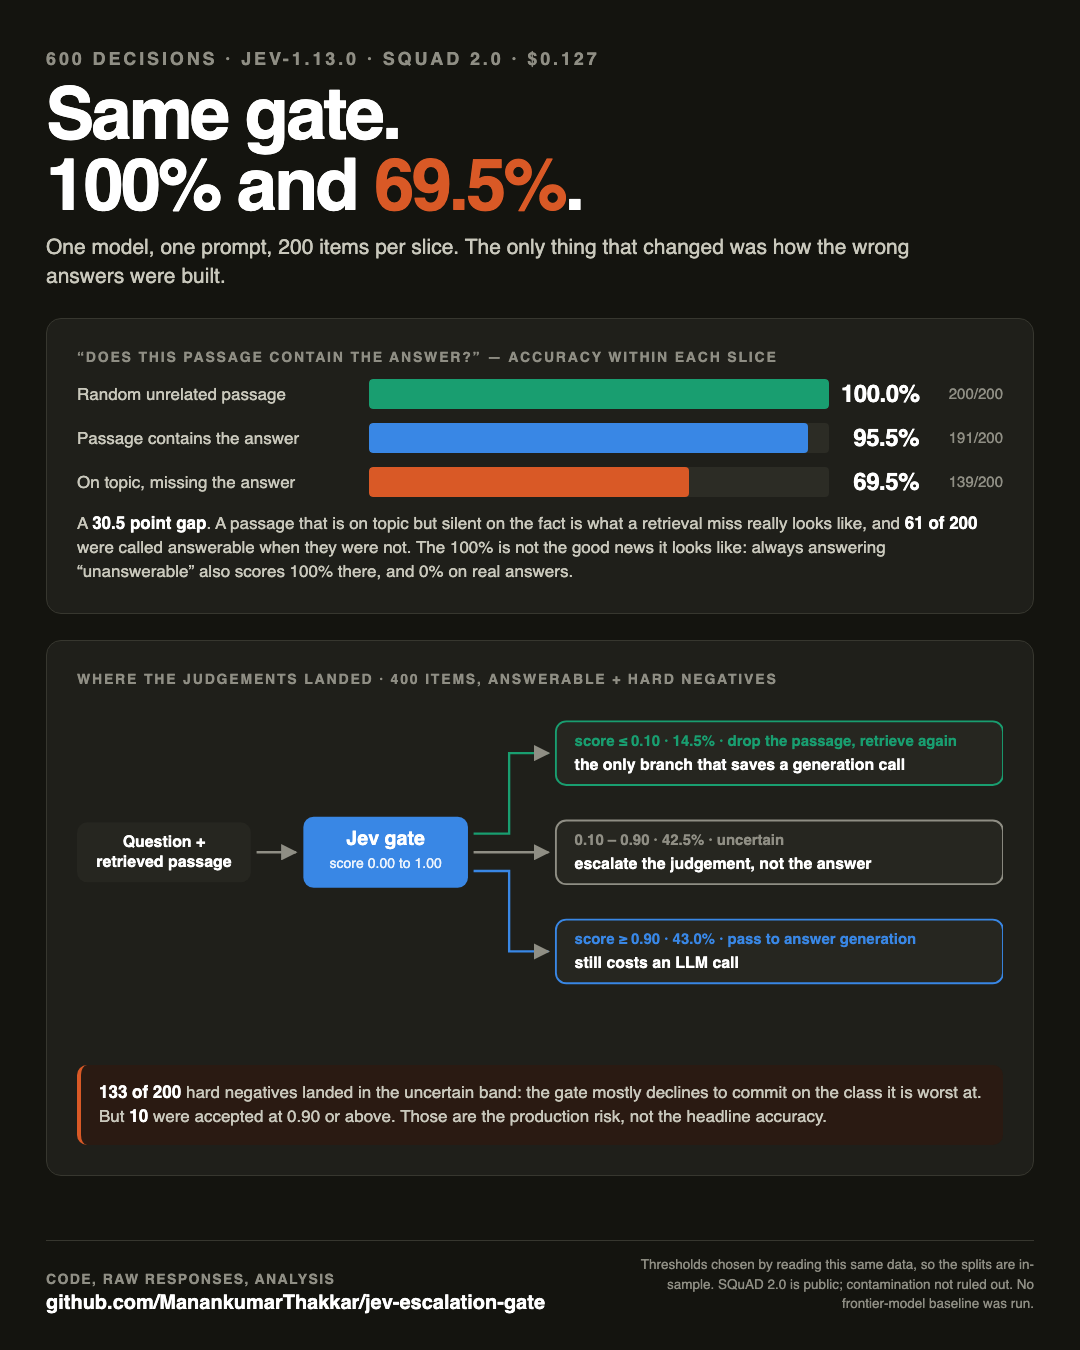
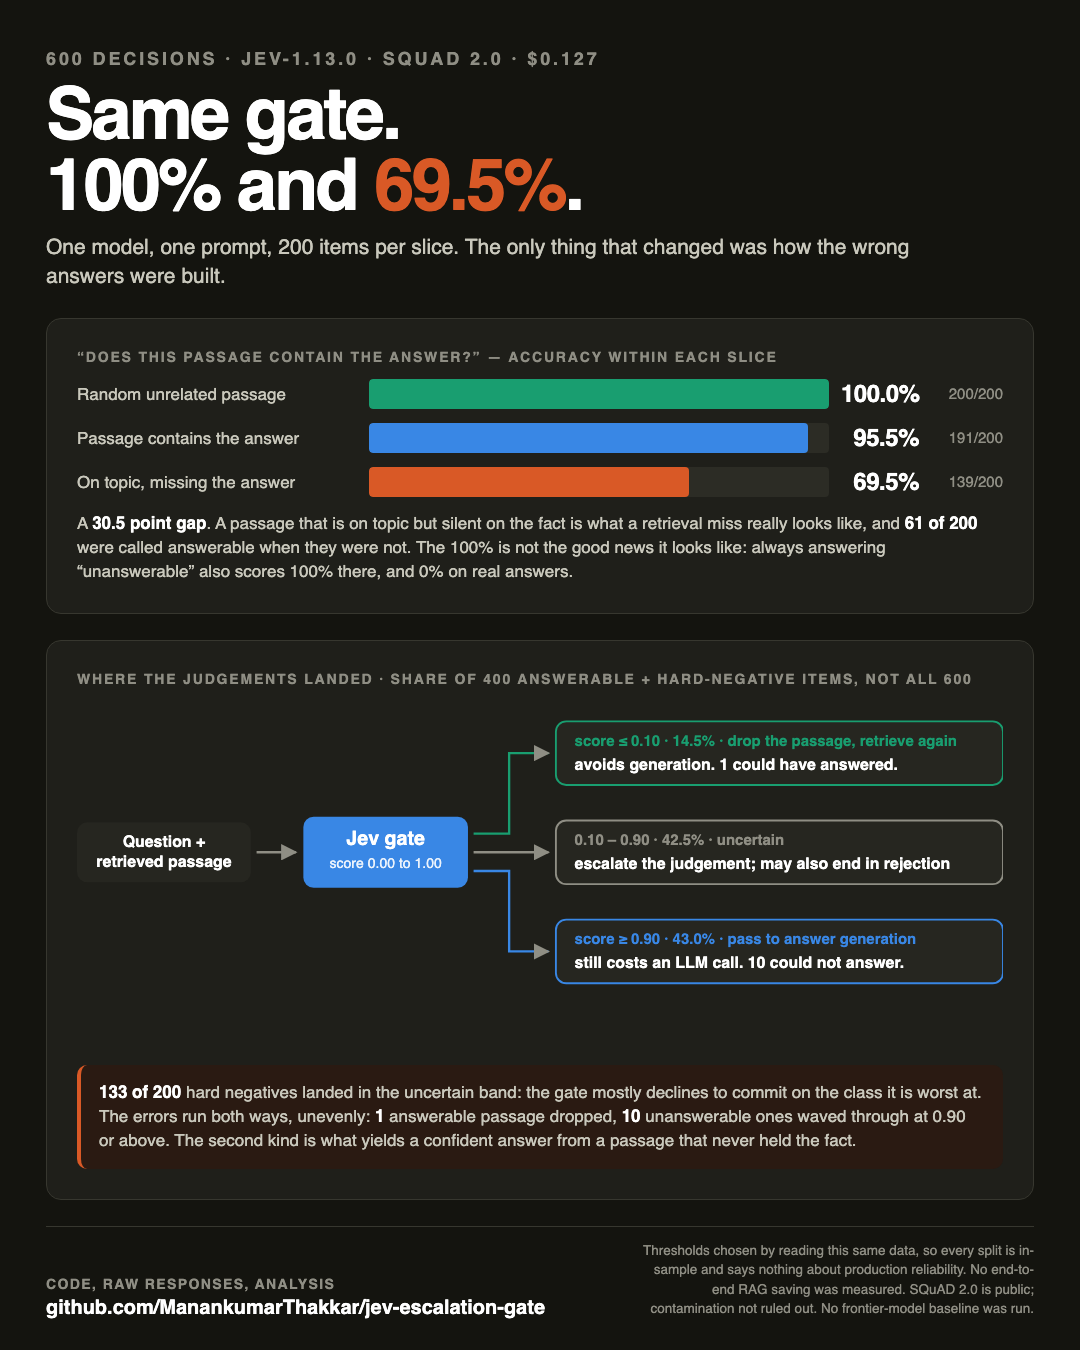
State the denominator, both error directions, and stop overclaiming the saving
Four corrections, all verified against the raw responses.

The reject branch was described as the only one that avoids a generation call.
It is not: 133 of the 170 escalated items are genuinely unanswerable, so a
stronger evaluator rejecting them avoids generation too. That path was never
measured, so no end-to-end saving is claimed.

The routing shares were published without their population. They are over the
400 answerable and hard-negative items; over all 600 the same band reads 42.8%
rather than 14.5%, so the denominator is now stated everywhere it appears.

Only false acceptance was reported. The reject branch also dropped one passage
that could have answered. Both directions are now shown, with the asymmetry.

Calibration no longer carries 'enough to route on', which the in-sample
thresholds do not support. The measurement stays; the endorsement goes.

diff --git a/linkedin/figure.html b/linkedin/figure.html
@@ -57,7 +57,7 @@
  </div>
 
  <div class="panel">
-  <div class="pt">Where the judgements landed &middot; 400 items, answerable + hard negatives</div>
+  <div class="pt">Where the judgements landed &middot; share of 400 answerable + hard-negative items, not all 600</div>
   <svg viewBox="0 0 990 340" width="100%" height="340" role="img"
        aria-label="Three routing branches by score: reject, escalate, or pass to generation">
    <defs><marker id="a" viewBox="0 0 10 10" refX="9" refY="5" markerWidth="7" markerHeight="7"
@@ -76,25 +76,28 @@
 
    <rect x="512" y="10" width="478" height="68" rx="11" fill="var(--panel2)" stroke="var(--s3)" stroke-width="2"/>
    <text x="532" y="36" font-size="16" font-weight="700" fill="var(--s3)">score &le; 0.10 &middot; 14.5% &middot; drop the passage, retrieve again</text>
-   <text x="532" y="62" font-size="17" font-weight="650" fill="var(--ink)">the only branch that saves a generation call</text>
+   <text x="532" y="62" font-size="17" font-weight="650" fill="var(--ink)">avoids generation. 1 could have answered.</text>
 
    <rect x="512" y="116" width="478" height="68" rx="11" fill="var(--panel2)" stroke="var(--ink3)" stroke-width="2"/>
    <text x="532" y="142" font-size="16" font-weight="700" fill="var(--ink3)">0.10 &ndash; 0.90 &middot; 42.5% &middot; uncertain</text>
-   <text x="532" y="168" font-size="17" font-weight="650" fill="var(--ink)">escalate the judgement, not the answer</text>
+   <text x="532" y="168" font-size="17" font-weight="650" fill="var(--ink)">escalate the judgement; may also end in rejection</text>
 
    <rect x="512" y="222" width="478" height="68" rx="11" fill="var(--panel2)" stroke="var(--s1)" stroke-width="2"/>
    <text x="532" y="248" font-size="16" font-weight="700" fill="var(--s1)">score &ge; 0.90 &middot; 43.0% &middot; pass to answer generation</text>
-   <text x="532" y="274" font-size="17" font-weight="650" fill="var(--ink)">still costs an LLM call</text>
+   <text x="532" y="274" font-size="17" font-weight="650" fill="var(--ink)">still costs an LLM call. 10 could not answer.</text>
   </svg>
   <div class="warn"><b>133 of 200</b> hard negatives landed in the uncertain band: the gate
-  mostly declines to commit on the class it is worst at. But <b>10</b> were accepted at
-  0.90 or above. Those are the production risk, not the headline accuracy.</div>
+  mostly declines to commit on the class it is worst at. The errors run both ways, unevenly:
+  <b>1</b> answerable passage dropped, <b>10</b> unanswerable ones waved through at
+  0.90 or above. The second kind is what yields a confident answer from a passage that
+  never held the fact.</div>
  </div>
 
  <footer>
   <div><div class="rlab">Code, raw responses, analysis</div><div class="repo">github.com/ManankumarThakkar/jev-escalation-gate</div></div>
-  <div class="cav">Thresholds chosen by reading this same data, so the splits are in-sample.
-  SQuAD 2.0 is public; contamination not ruled out. No frontier-model baseline was run.</div>
+  <div class="cav">Thresholds chosen by reading this same data, so every split is in-sample and
+  says nothing about production reliability. No end-to-end RAG saving was measured. SQuAD 2.0
+  is public; contamination not ruled out. No frontier-model baseline was run.</div>
  </footer>
 
 </div></body></html>

diff --git a/src/make_figure.py b/src/make_figure.py
@@ -42,6 +42,7 @@ def data() -> dict:
         "acc_pct": len(acc_band) / len(real) * 100,
         "hard_conf_accept": len([r for r in acc_band if r["slice"] == "hard_negative"]),
         "hard_escalated": len([r for r in esc if r["slice"] == "hard_negative"]),
+        "false_reject": len([r for r in rej if r["answerable"]]),
         "n_hard": len(hard),
         "model": raw["models_seen"][0], "cost": raw["total_cost_usd"], "n": len(rows),
     }
@@ -116,7 +117,7 @@ def main() -> int:
  </div>
 
  <div class="panel">
-  <div class="pt">Where the judgements landed &middot; {d['n_real']} items, answerable + hard negatives</div>
+  <div class="pt">Where the judgements landed &middot; share of {d['n_real']} answerable + hard-negative items, not all {d['n']}</div>
   <svg viewBox="0 0 990 340" width="100%" height="340" role="img"
        aria-label="Three routing branches by score: reject, escalate, or pass to generation">
    <defs><marker id="a" viewBox="0 0 10 10" refX="9" refY="5" markerWidth="7" markerHeight="7"
@@ -135,25 +136,28 @@ def main() -> int:
 
    <rect x="512" y="10" width="478" height="68" rx="11" fill="var(--panel2)" stroke="var(--s3)" stroke-width="2"/>
    <text x="532" y="36" font-size="16" font-weight="700" fill="var(--s3)">score &le; {LO:.2f} &middot; {d['rej_pct']:.1f}% &middot; drop the passage, retrieve again</text>
-   <text x="532" y="62" font-size="17" font-weight="650" fill="var(--ink)">the only branch that saves a generation call</text>
+   <text x="532" y="62" font-size="17" font-weight="650" fill="var(--ink)">avoids generation. {d['false_reject']} could have answered.</text>
 
    <rect x="512" y="116" width="478" height="68" rx="11" fill="var(--panel2)" stroke="var(--ink3)" stroke-width="2"/>
    <text x="532" y="142" font-size="16" font-weight="700" fill="var(--ink3)">{LO:.2f} &ndash; {HI:.2f} &middot; {d['esc_pct']:.1f}% &middot; uncertain</text>
-   <text x="532" y="168" font-size="17" font-weight="650" fill="var(--ink)">escalate the judgement, not the answer</text>
+   <text x="532" y="168" font-size="17" font-weight="650" fill="var(--ink)">escalate the judgement; may also end in rejection</text>
 
    <rect x="512" y="222" width="478" height="68" rx="11" fill="var(--panel2)" stroke="var(--s1)" stroke-width="2"/>
    <text x="532" y="248" font-size="16" font-weight="700" fill="var(--s1)">score &ge; {HI:.2f} &middot; {d['acc_pct']:.1f}% &middot; pass to answer generation</text>
-   <text x="532" y="274" font-size="17" font-weight="650" fill="var(--ink)">still costs an LLM call</text>
+   <text x="532" y="274" font-size="17" font-weight="650" fill="var(--ink)">still costs an LLM call. {d['hard_conf_accept']} could not answer.</text>
   </svg>
   <div class="warn"><b>{d['hard_escalated']} of {d['n_hard']}</b> hard negatives landed in the uncertain band: the gate
-  mostly declines to commit on the class it is worst at. But <b>{d['hard_conf_accept']}</b> were accepted at
-  {HI:.2f} or above. Those are the production risk, not the headline accuracy.</div>
+  mostly declines to commit on the class it is worst at. The errors run both ways, unevenly:
+  <b>{d['false_reject']}</b> answerable passage dropped, <b>{d['hard_conf_accept']}</b> unanswerable ones waved through at
+  {HI:.2f} or above. The second kind is what yields a confident answer from a passage that
+  never held the fact.</div>
  </div>
 
  <footer>
   <div><div class="rlab">Code, raw responses, analysis</div><div class="repo">{REPO_URL}</div></div>
-  <div class="cav">Thresholds chosen by reading this same data, so the splits are in-sample.
-  SQuAD 2.0 is public; contamination not ruled out. No frontier-model baseline was run.</div>
+  <div class="cav">Thresholds chosen by reading this same data, so every split is in-sample and
+  says nothing about production reliability. No end-to-end RAG saving was measured. SQuAD 2.0
+  is public; contamination not ruled out. No frontier-model baseline was run.</div>
  </footer>
 
 </div></body></html>"""

diff --git a/README.md b/README.md
@@ -123,8 +123,9 @@ carrying the aggregate. The mid-range buckets are the least reliable, and they
 are exactly where the escalation band sits.
 
 So: **on this evaluation, high-confidence scores were dependable and mid-range
-scores were not.** That is enough to route on. It is not enough to tune a
-threshold with, and it is not a general claim about the model.
+scores were not.** That is a measurement, not a validation. The thresholds were
+chosen by reading this same data, so nothing here establishes that routing on
+these scores would hold up in production.
 
 ### 3⃣ Which means you can route on it
 
@@ -134,7 +135,7 @@ negatives, n=400), at a band of 0.10 to 0.90:
 
 | Score | Share | What it means | Composition |
 |---|---:|---|---|
-| **at or below 0.10** | **14.5%** | drop the passage, retrieve again. **The only branch that avoids a generation call.** | 57 hard negatives, 1 answerable (wrongly dropped) |
+| **at or below 0.10** | **14.5%** | drop the passage, retrieve again. Avoids the generation call outright. | 57 hard negatives, **1 answerable wrongly dropped** |
 | 0.10 to 0.90 | 42.5% | escalate the *judgement* to a stronger evaluator | 133 hard negatives, 37 answerable |
 | at or above 0.90 | 43.0% | pass to answer generation. **Still costs an LLM call.** | 162 answerable, 10 hard negatives |
 
@@ -149,8 +150,14 @@ risk: unanswerable passages waved through with high confidence, which is how you
 get a fluent answer built on a passage that never held the fact. 5% of the hard
 negatives, and no aggregate accuracy number will show it to you.
 
-A note on what this does *not* say: it measures answerability classification, not
-complete RAG requests. Nothing here establishes an end-to-end cost saving.
+Rejecting a passage avoids the generation call outright. An escalated judgement
+that comes back negative would avoid it too, but that second path was not
+measured here, so **no end-to-end RAG saving is established**. This measures
+answerability classification, not complete RAG requests.
+
+All three shares are over the 400 answerable and hard-negative items. Over all
+600, including the easy-negative control, the same band reads 42.8% rejected
+rather than 14.5%, which is why the denominator has to be stated.
 
 ### 💵 Speed and cost, measured
 
